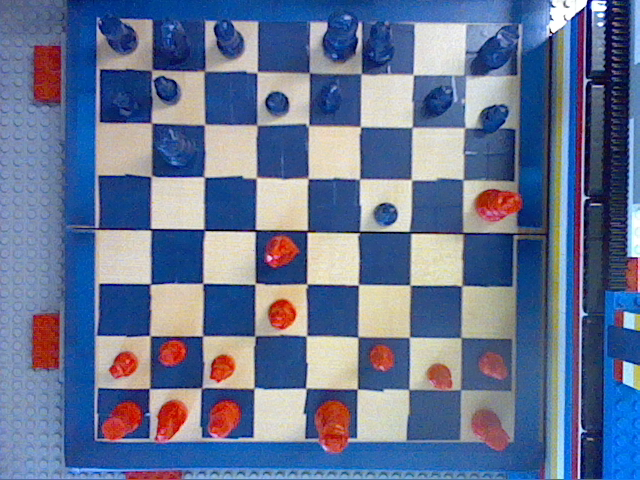
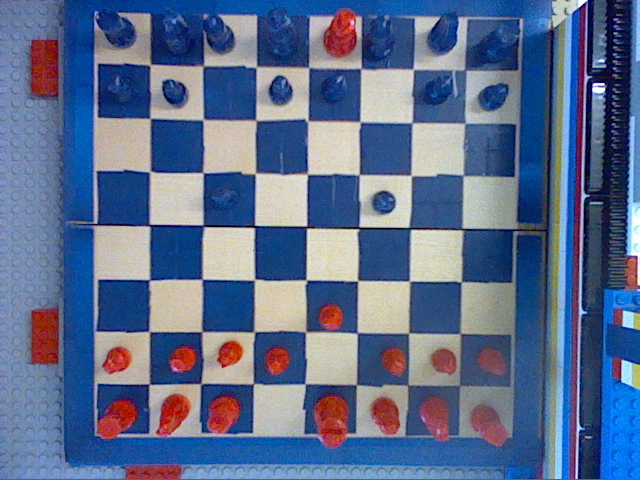
Camera and robot connected into boardcontroller

diff --git a/shakkiBotti9000PC/src/controller/BoardController.java b/shakkiBotti9000PC/src/controller/BoardController.java
@@ -24,13 +24,20 @@ public class BoardController {
 		int depth = 3;
 		Socket socket = null;
 		boolean vuoro = false;
-		boolean peli = true;
 		Camera cam = new Camera(board);	
 		String answer=null;
-/*
+
+		try {
+			socket = new Socket("10.0.1.1", 1111);
+		      DataInputStream in = new DataInputStream(socket.getInputStream());
+		      DataOutputStream out = new DataOutputStream(socket.getOutputStream());
 				while (board.getPieces().contains(white) && board.getPieces().contains(black)) {
 					vuoro = in.readBoolean();
-					if (peli==true) {
+					if (vuoro==true) {
+						
+					
+						cam.takePicture();
+						cam.getEnemymove();
 						System.out.println("-----------------------");
 						System.out.println("A B C D E F G H");
 						for (int i = 0; i < 8; i++) {
@@ -41,17 +48,14 @@ public class BoardController {
 							System.out.println(" "+(i+1));
 						}
 						System.out.println("");
-					
-						cam.takePicture();
-						cam.getEnemymove();
 						
 //						board.move(new Move(board.pieceAt(x, y),x2,y2,board.pieceAt(x2, y2)));
 						Move m = ai.calculateBestMove(depth);
 						board.move(m);
 						//fromX, toX, fromY, toY, target
-						out.writeInt(m.getP().getX());
+						out.writeInt(m.getOldX());
 						out.flush();
-						out.writeInt(m.getP().getY());
+						out.writeInt(m.getOldY());
 						out.flush();
 						out.writeInt(m.getNewX());
 						out.flush();
@@ -64,14 +68,26 @@ public class BoardController {
 							out.writeInt(1);
 							out.flush();
 						}
+						System.out.println("-----------------------");
+						System.out.println("A B C D E F G H");
+						for (int i = 0; i < 8; i++) {
+							
+							for (int j = 0; j < 8; j++) {
+								System.out.print(" "+board.getPositions()[i][j].getPieceString());
+							}
+							System.out.println(" "+(i+1));
+						}
+						System.out.println("");
 					}
 					vuoro = false;
 				}
+				in.close();
+				out.close();
 		} catch (IOException e) {
 			// TODO Auto-generated catch block
 			e.printStackTrace();
 		}
-*/
+/*
 		while (board.getPieces().contains(white) && board.getPieces().contains(black)) {
 
 			while (answer != "x") {
@@ -96,5 +112,7 @@ public class BoardController {
 				answer = sc.next();
 			}
 		}
+	}
+*/
 	}
 }

diff --git a/shakkiBotti9000Robo/src/robot/Motors.java b/shakkiBotti9000Robo/src/robot/Motors.java
@@ -27,7 +27,7 @@ public class Motors {
 	int lenghtRot = 94;		// 94	yksi ruutu
 	int widthRot = -280;	// 280	yksi ruutu						HUOM. käänteellinen pyörimissuunta
 	int heightRot = -282;	// 282	max liikkumis					HUOM. käänteellinen pyörimissuunta
-	int pliersRot = -325;	// 325	sopiva kaikkille nappuloille	HUOM. käänteellinen pyörimissuunta
+	int pliersRot = -335;	// 325	sopiva kaikkille nappuloille	HUOM. käänteellinen pyörimissuunta
 	int toBoard = 390; 		// 390	vakioetäisyys odotuspaikan ja ensimmäisen ruudun välillä
 	
 	public Motors(Data data, Button button) {

diff --git a/shakkiBotti9000PC/src/tests/MovesTest.java b/shakkiBotti9000PC/src/tests/MovesTest.java
@@ -21,6 +21,16 @@ public class MovesTest {
 		while (answer != "x") {
 			cam.takePicture();
 			cam.getEnemymove();
+			System.out.println("-----------------------");
+			System.out.println("A B C D E F G H");
+			for (int i = 0; i < 8; i++) {
+				
+				for (int j = 0; j < 8; j++) {
+					System.out.print(" "+board.getPositions()[i][j].getPieceString());
+				}
+				System.out.println(" "+(i+1));
+			}
+			System.out.println("");
 				
 			System.out.println("********************* \n\nAgain");
 			answer = sc.next();

diff --git a/shakkiBotti9000PC/src/view/cameraQUI.java b/shakkiBotti9000PC/src/view/cameraQUI.java
@@ -50,7 +50,7 @@ public class cameraQUI extends Application {
 						int green = (clr & 0x0000ff00) >> 8;
 						int blue = clr & 0x000000ff;
 						image.setRGB(j2, k,0x000000ff);
-						if (red <= 255 && red >= 130 && green <= 110 && green >= 0 && blue <= 120 && blue >= 0) {
+						if (red <= 255 && red >= 110 && green <= 105 && green >= 0 && blue <= 115 && blue >= 0) {
 							if (find == false) {
 								System.out.println("Found in " + j + " " + i);
 								find = true;

diff --git a/shakkiBotti9000PC/src/shakkiBotti9000PC/Camera.java b/shakkiBotti9000PC/src/shakkiBotti9000PC/Camera.java
@@ -68,7 +68,7 @@ public class Camera {
 							int red = (clr & 0x00ff0000) >> 16;
 							int green = (clr & 0x0000ff00) >> 8;
 							int blue = clr & 0x000000ff;
-							if (red <= 255 && red >= 130 && green <= 110 && green >= 0 && blue <= 120 && blue >= 0) {
+							if (red <= 255 && red >= 110 && green <= 105 && green >= 0 && blue <= 115 && blue >= 0) {
 								if (find == false) {
 									find = true;
 									newPosition[j][i].setPiece(new Piece(Piece.WHITE,i,j));
